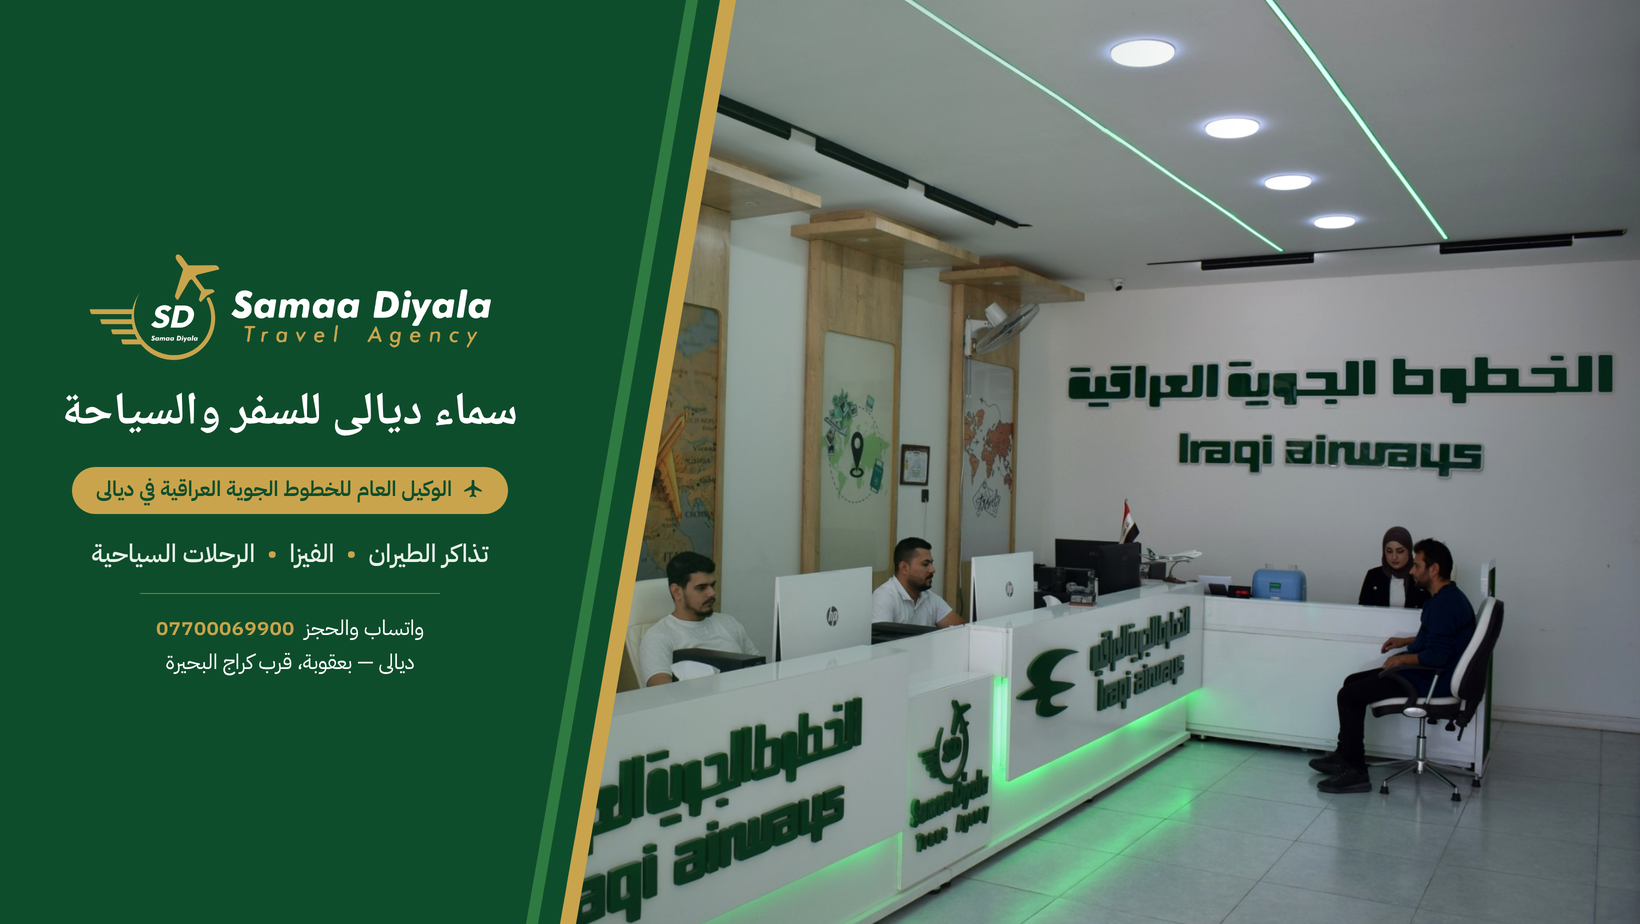
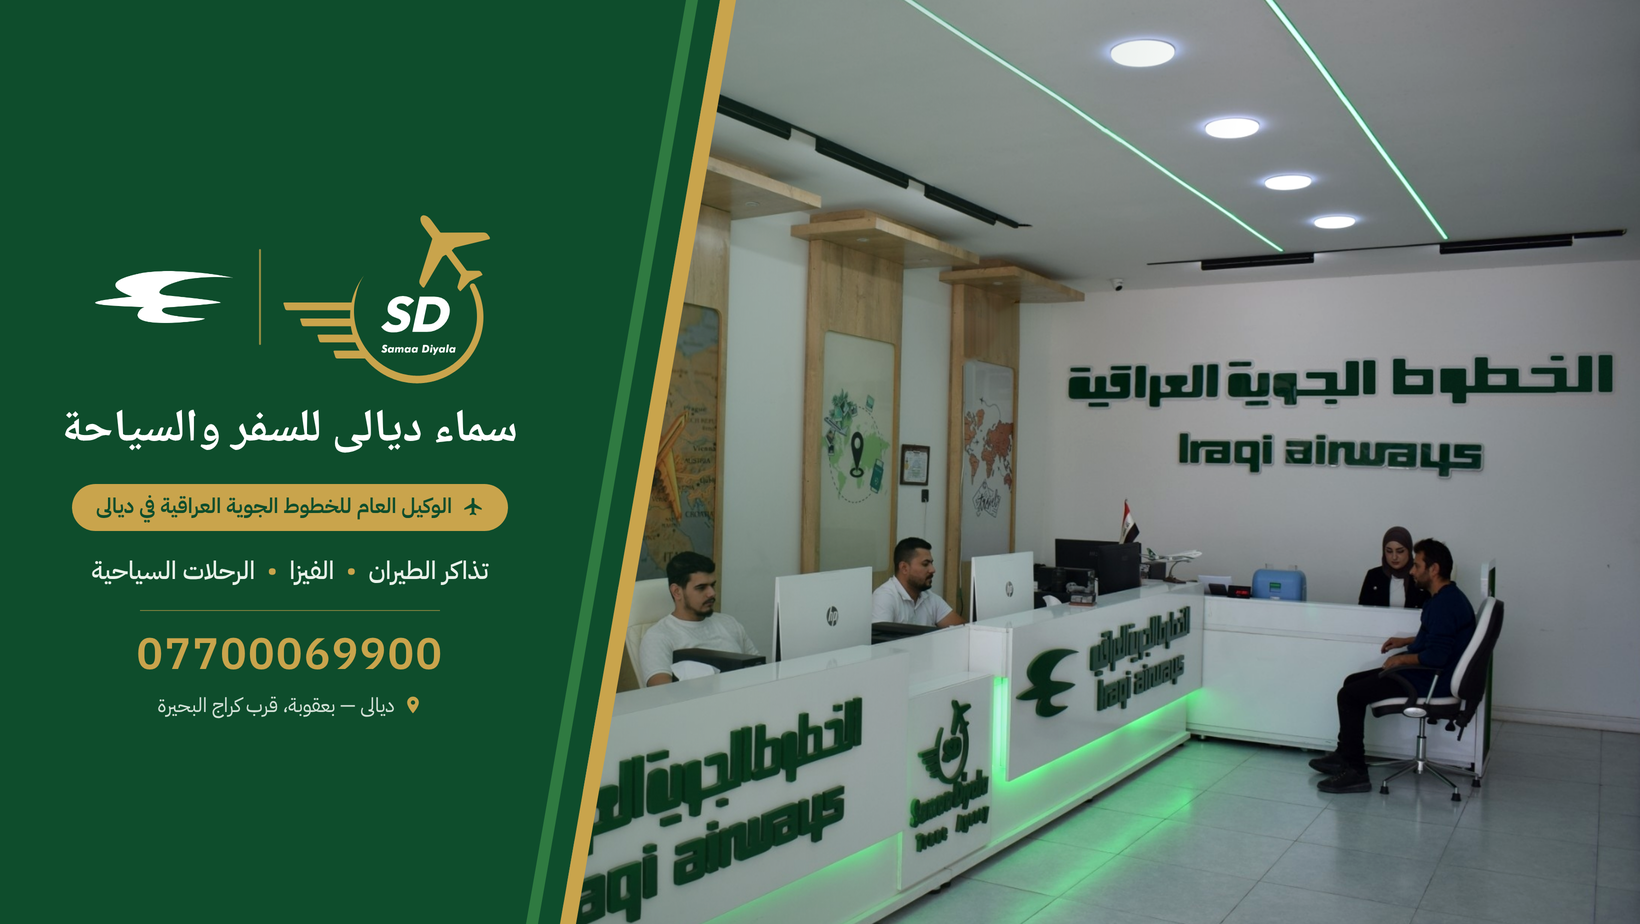
غلاف فيسبوك: رمز الشعار مع طائر العراقية، وتكبير الرقم، وأيقونة الموقع، وإزالة المروحة
Claude-Session: https://claude.ai/code/session_01EprWPUJDuKvYHn821imCPv

diff --git a/09-التصاميم/غلاف فيسبوك/غلاف.html b/09-التصاميم/غلاف فيسبوك/غلاف.html
@@ -24,7 +24,7 @@
 
   /* photo: scaled to 0.75 (1500 x 1001), placed so the sign, staff and customer sit on the right */
   .photo{position:absolute;left:170px;top:-40px;width:1500px;height:1001px;
-         background:url("../../08-الصور/المكتب - الواجهة (القارمة معدّلة).jpg") 0 0/100% 100% no-repeat;
+         background:url("../../08-الصور/المكتب - الواجهة (معدّلة بلا مروحة).jpg") 0 0/100% 100% no-repeat;
          filter:contrast(1.04) saturate(1.06) brightness(1.02)}
   /* soft green fade from the panel into the photo */
   .fade{position:absolute;inset:0;
@@ -40,8 +40,12 @@
   /* text block — kept inside the band that desktop shows (y 150–774) */
   .content{position:absolute;left:40px;width:500px;top:0;height:924px;
            display:flex;flex-direction:column;align-items:center;justify-content:center;text-align:center;color:var(--white)}
-  .logo{width:420px;display:block}
-  .name{font-family:Naskh;font-weight:700;font-size:46px;line-height:1.35;margin-top:14px;letter-spacing:0}
+  /* our symbol first (right), a thin gold divider, then the Iraqi Airways bird, smaller */
+  .logos{display:flex;align-items:center;gap:26px}
+  .logo{width:226px;height:226px;display:block;margin:-18px -14px -22px}
+  .divider{width:2px;height:96px;background:rgba(201,164,76,.7);border-radius:2px}
+  .ia{width:138px;display:block}
+  .name{font-family:Naskh;font-weight:700;font-size:46px;line-height:1.35;margin-top:10px;letter-spacing:0}
   .badge{margin-top:22px;display:inline-flex;align-items:center;gap:10px;
          background:var(--gold);color:var(--green);border-radius:999px;padding:9px 24px 11px;
          font-family:Plex;font-weight:600;font-size:21px;line-height:1.3;white-space:nowrap}
@@ -49,9 +53,11 @@
   .services{margin-top:22px;font-family:Plex;font-weight:500;font-size:25px;line-height:1.4;color:var(--light);white-space:nowrap}
   .services .dot{color:var(--gold);margin:0 12px}
   .rule{width:300px;height:1px;background:rgba(201,164,76,.55);margin:22px 0 18px}
-  .contact{font-family:Plex;font-size:21px;line-height:1.6;color:var(--white);white-space:nowrap}
-  .contact b{font-weight:600;color:var(--gold);direction:ltr;unicode-bidi:isolate;letter-spacing:.5px}
-  .contact .addr{color:rgba(233,242,234,.85);font-size:19px}
+  .phone{font-family:Plex;font-weight:600;font-size:44px;line-height:1.15;color:var(--gold);
+         direction:ltr;letter-spacing:1.5px;white-space:nowrap}
+  .addr{margin-top:10px;display:inline-flex;align-items:center;gap:8px;
+        font-family:Plex;font-size:20px;line-height:1.5;color:rgba(233,242,234,.9);white-space:nowrap}
+  .addr svg{width:20px;height:20px;flex:none;color:var(--gold)}
 </style>
 </head>
 <body>
@@ -63,7 +69,11 @@
   <div class="stripe-gold"></div>
 
   <div class="content">
-    <img class="logo" src="../../01-الشعار/SVG/الأفقي - على الأخضر.svg" alt="">
+    <div class="logos">
+      <img class="logo" src="../../01-الشعار/SVG/الرمز - على الأخضر.svg" alt="">
+      <div class="divider"></div>
+      <img class="ia" src="../../06-مصادر-الشعار/العراقية/طائر العراقية - أبيض.png" alt="">
+    </div>
     <div class="name">سماء ديالى للسفر والسياحة</div>
     <div class="badge">
       <svg viewBox="0 0 24 24" fill="currentColor" aria-hidden="true"><path d="M21.5 15.2v-1.9l-8-5V3.5a1.5 1.5 0 0 0-3 0v4.8l-8 5v1.9l8-2.5v5.3l-2 1.5V21l3.5-1 3.5 1v-1.5l-2-1.5v-5.3z"/></svg>
@@ -71,8 +81,11 @@
     </div>
     <div class="services">تذاكر الطيران<span class="dot">•</span>الفيزا<span class="dot">•</span>الرحلات السياحية</div>
     <div class="rule"></div>
-    <div class="contact">واتساب والحجز&nbsp; <b>07700069900</b></div>
-    <div class="contact addr">ديالى — بعقوبة، قرب كراج البحيرة</div>
+    <div class="phone">07700069900</div>
+    <div class="addr">
+      <svg viewBox="0 0 24 24" fill="currentColor" aria-hidden="true"><path d="M12 2a7 7 0 0 0-7 7c0 5.2 7 13 7 13s7-7.8 7-13a7 7 0 0 0-7-7zm0 9.6A2.6 2.6 0 1 1 12 6.4a2.6 2.6 0 0 1 0 5.2z"/></svg>
+      ديالى — بعقوبة، قرب كراج البحيرة
+    </div>
   </div>
 </div>
 </body>

diff --git a/07-أدوات/صورة-المكتب/remove_fan.py b/07-أدوات/صورة-المكتب/remove_fan.py
@@ -1,0 +1,51 @@
+# Remove the wall fan (and its bracket and cords) above the desks.
+import cv2,numpy as np,sys
+src,out,S=sys.argv[1],sys.argv[2],sys.argv[3]
+im=cv2.imread(src); H,W=im.shape[:2]
+m=np.zeros((H,W),np.uint8)
+grille=np.array([(1064,512),(1080,529),(1102,524),(1137,502),(1162,480),(1163,456),(1150,452),(1118,460),(1088,478),(1068,498)],np.int32)
+cv2.fillPoly(m,[grille],255)
+cv2.rectangle(m,(1084,452),(1118,494),255,-1)    # motor
+cv2.rectangle(m,(1056,470),(1074,532),255,-1)    # bracket
+cv2.rectangle(m,(1068,478),(1096,498),255,-1)    # arm
+cv2.rectangle(m,(1058,528),(1071,586),255,-1)    # cords
+m=cv2.dilate(m,np.ones((5,5),np.uint8))
+f=im.astype(np.float32); rng=np.random.default_rng(3)
+EDGE0,EDGE1=1126,1135
+M=(m>0)
+def colcopy(sel,yref_fn,rowref=None):
+    for x in np.where(sel.any(0))[0]:
+        ys=np.where(sel[:,x])[0]; yr=yref_fn(x)
+        base=np.median(f[yr-2:yr+3,x],0)
+        for y in ys:
+            adj=(rowref(y)-rowref(yr)) if rowref is not None else 0
+            f[y,x]=base+adj+rng.normal(0,1.0,3)
+ref=lambda y: np.median(f[y,1168:1176],0)
+below=lambda x: int(np.where(~M[:,x] & (np.arange(H)>480))[0][0])+3
+# 1) wall right of the pillar and the pillar's right edge: copy each column from just below the fan
+sel=M.copy(); sel[:, :EDGE0]=False; colcopy(sel,below,ref)
+# 2) pillar front strip and the panel's left edge: copy each column from just above the bracket,
+#    shifting brightness row by row to follow the visible part of the pillar front
+_fr=np.median(f[:,1041:1050],1); _fr=cv2.GaussianBlur(_fr[None],(0,0),sigmaX=0.1,sigmaY=0)[0]
+_fr=np.stack([np.convolve(np.pad(_fr[:,c],12,mode='edge'),np.ones(25)/25,'valid') for c in range(3)],1)
+fr=lambda y: _fr[y]
+sel=M.copy(); sel[:, :1048]=False; sel[:, 1083:]=False; sel[526:]=False; colcopy(sel,lambda x:449,fr)
+# 2b) cords over the poster's left margin: copy from just below them
+sel=M.copy(); sel[:541]=False; sel[:, 1083:]=False; colcopy(sel,lambda x:593)
+done=M.copy(); done[:, EDGE0:]=False
+keep=np.zeros_like(done); keep[:526,1048:1080]=True; keep[541:,1048:1080]=True
+done&=~keep          # inpaint the panel, the strip where pillar meets poster, and the seam at x~1080
+# 3) wood and poster: inpaint, then restore a little vertical grain on the wood
+rest=done
+tmp=np.clip(f,0,255).astype(np.uint8)
+inp=cv2.inpaint(tmp,rest.astype(np.uint8)*255,7,cv2.INPAINT_TELEA).astype(np.float32)
+grain=cv2.GaussianBlur(rng.normal(0,1,(1,W)).astype(np.float32),(0,0),1.2)*5
+wood=rest.copy(); wood[530:]=False
+inp[wood]+=np.repeat(grain,H,0)[wood][:,None]
+f[rest]=inp[rest]
+blk=np.zeros((H,W),np.float32); blk[452:527,1046:1084]=1
+blk=cv2.GaussianBlur(blk,(0,0),2.5)*(M>0)
+f=f*(1-blk[...,None])+cv2.GaussianBlur(f,(0,0),1.2)*blk[...,None]*0+f*blk[...,None]*1
+res=np.clip(f,0,255).astype(np.uint8)
+cv2.imwrite(out,res,[cv2.IMWRITE_JPEG_QUALITY,97])
+cv2.imwrite(S+'/fan/cmp.png',np.hstack([cv2.resize(im[420:610,1010:1200],None,fx=3,fy=3,interpolation=cv2.INTER_CUBIC),cv2.resize(res[420:610,1010:1200],None,fx=3,fy=3,interpolation=cv2.INTER_CUBIC)]))

diff --git a/CLAUDE.md b/CLAUDE.md
@@ -41,7 +41,7 @@
 - العنصر البصري: شريطان مائلان (أخضر وذهبي) مستوحيان من خطوط الطائرة، وبطاقة الصعود لعرض العروض (مسار BGW ← رمز الوجهة، خانات المدة والتاريخ، الجزء المقطوع للسعر). الكعب أخضر بسعر ذهبي على الخلفية الفاتحة، وذهبي بسعر أخضر على الأخضر.
 - شارة ثابتة: "الوكيل العام للخطوط الجوية العراقية في ديالى".
 - قوالب ملف الهوية (منشور العرض، لوحة الأسعار، الستوري...) معتمدة وتُستخدم أساساً للعمل، لكنها مرنة: تُعدَّل أو يُضاف غيرها حين يحتاج المنشور.
-- مسألة استخدام شعار العراقية في التصاميم: مؤجلة، لم تُحسم.
+- شعار العراقية: يُستخدم الطائر وحده بلا كتابة، وأصغر من شعارنا، وبجانبه بفاصل ذهبي رفيع (كما في غلاف فيسبوك). الملفات في `06-مصادر-الشعار/العراقية/` بالأبيض والأخضر الرسمي #12470D والذهبي، والمصدر ويكيميديا.
 
 ## الشعار
 - النسخة النهائية في `01-الشعار/`: عمودي، وأفقي، ورمز وحده، كل منها أساسي وعلى الأخضر، ونسخ أحادية (أخضر، أسود، أبيض).
@@ -52,7 +52,8 @@
 - الألوان النهائية للشعار ما زالت بانتظار اعتماد المدير.
 
 ## ملفات العمل
-- `08-الصور/`: صور حقيقية من المكتب. "المكتب - الواجهة (القارمة معدّلة)" أُزيل فيها الانعكاس عن لافتة العراقية بإعادة رسم الحروف المعكوسة (`07-أدوات/صورة-المكتب/redraw.py`).
+- `08-الصور/`: صور حقيقية من المكتب. "المكتب - الواجهة (معدّلة بلا مروحة)" هي المعتمدة: أُزيل فيها انعكاس لافتة العراقية بإعادة رسم الحروف (`07-أدوات/صورة-المكتب/redraw.py`)، ثم أُزيلت المروحة اليمنى (`remove_fan.py`).
+- بيئة "sama-diyala" تسمح أيضاً بـ en.wikipedia.org وcommons.wikimedia.org وupload.wikimedia.org. ويكيميديا تحظر الملفات الأصلية أحياناً بسبب كثرة الطلبات، والصور المصغّرة بمقاس 1920 تعمل.
 - `09-التصاميم/`: كل تصميم في مجلده، مصدره HTML ويُصدَّر PNG عبر Chromium. الخطوط في `07-أدوات/خطوط/`.
 - غلاف فيسبوك: 1640×924، والنص في الشريط الأوسط (y بين 150 و774) لأن الحاسوب يقص الأعلى والأسفل.
 
